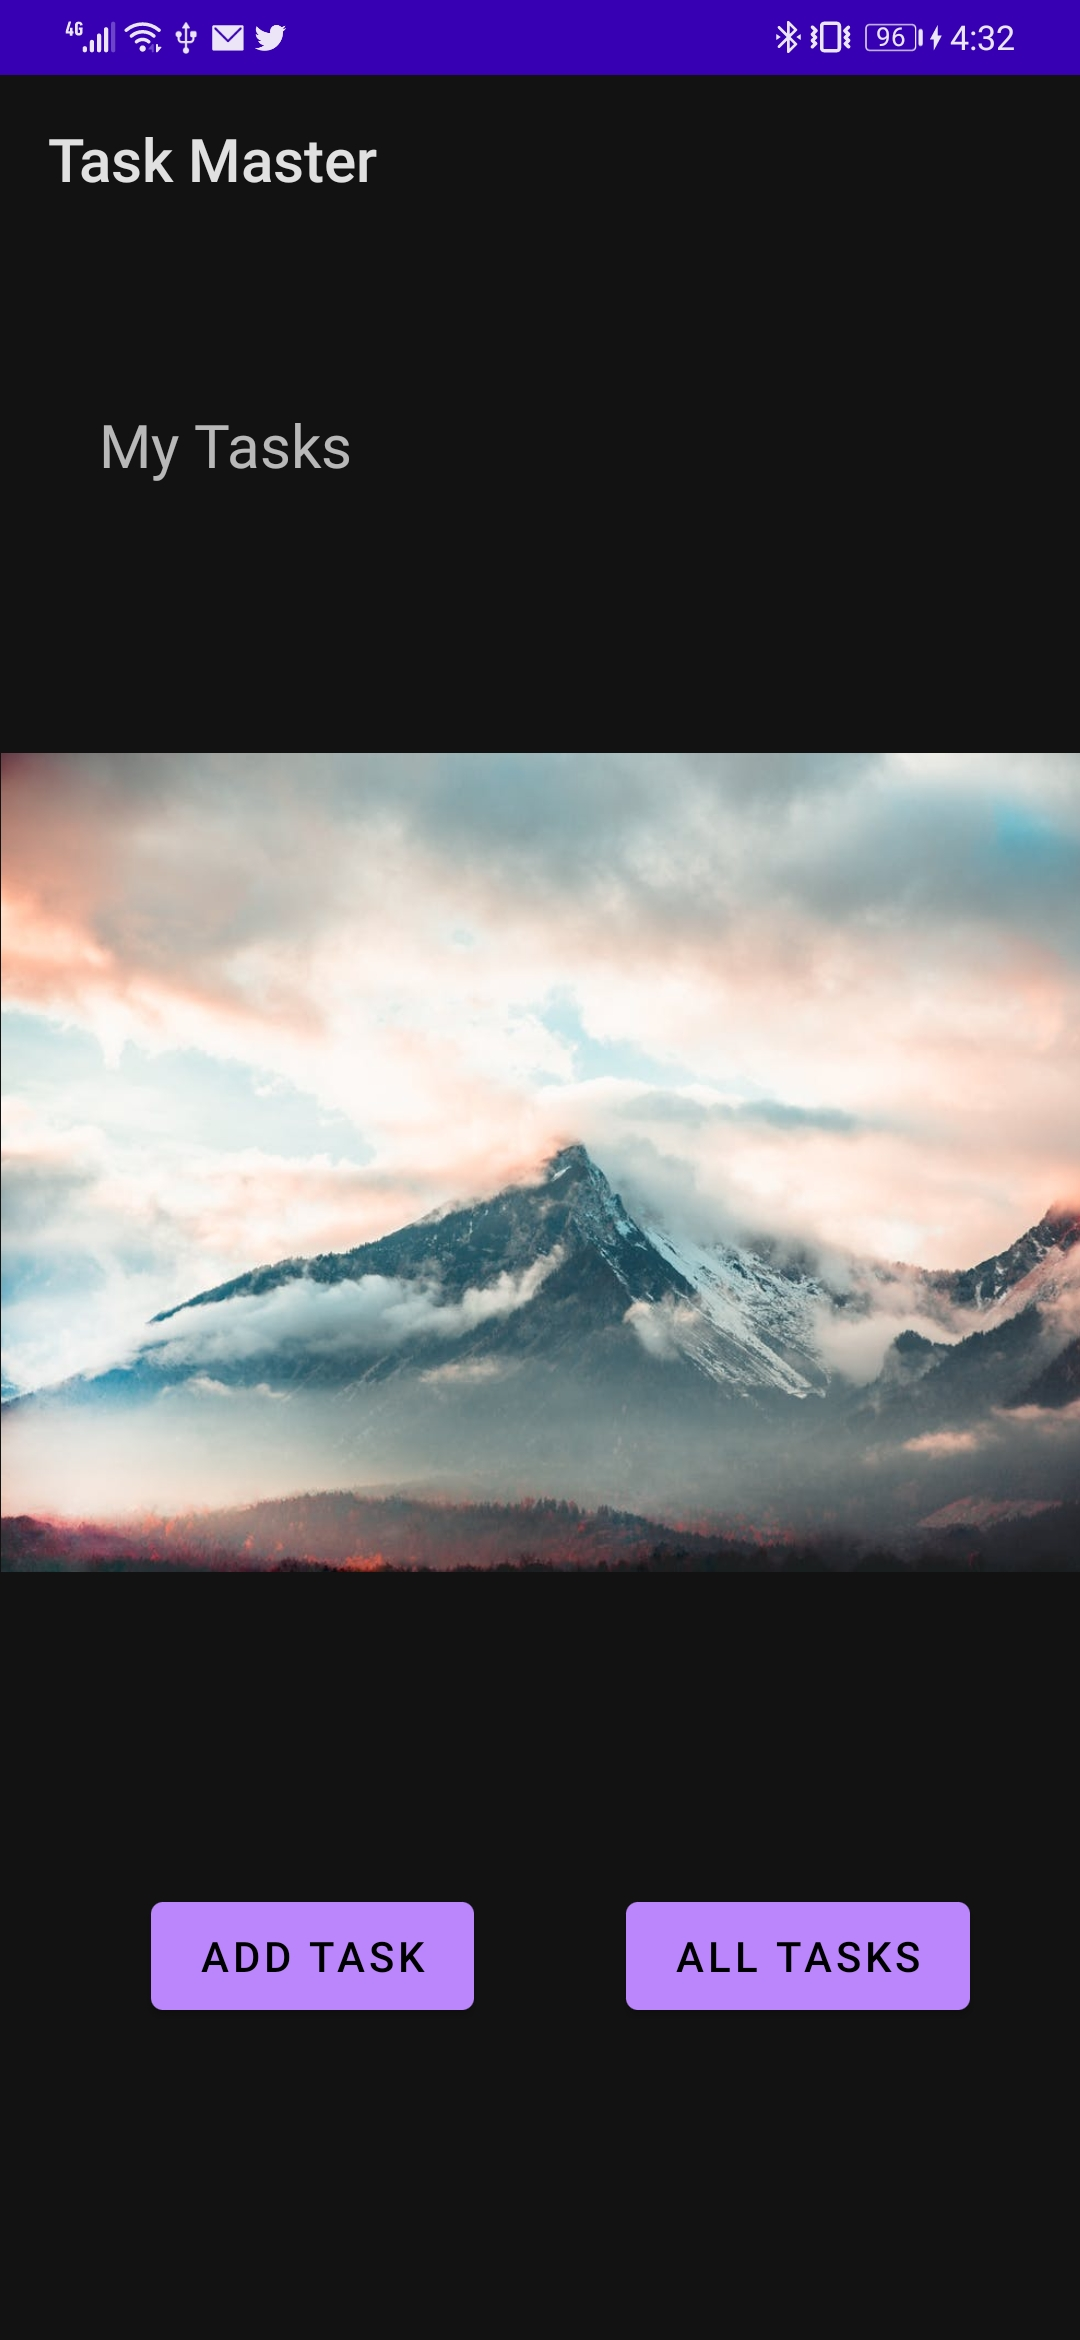
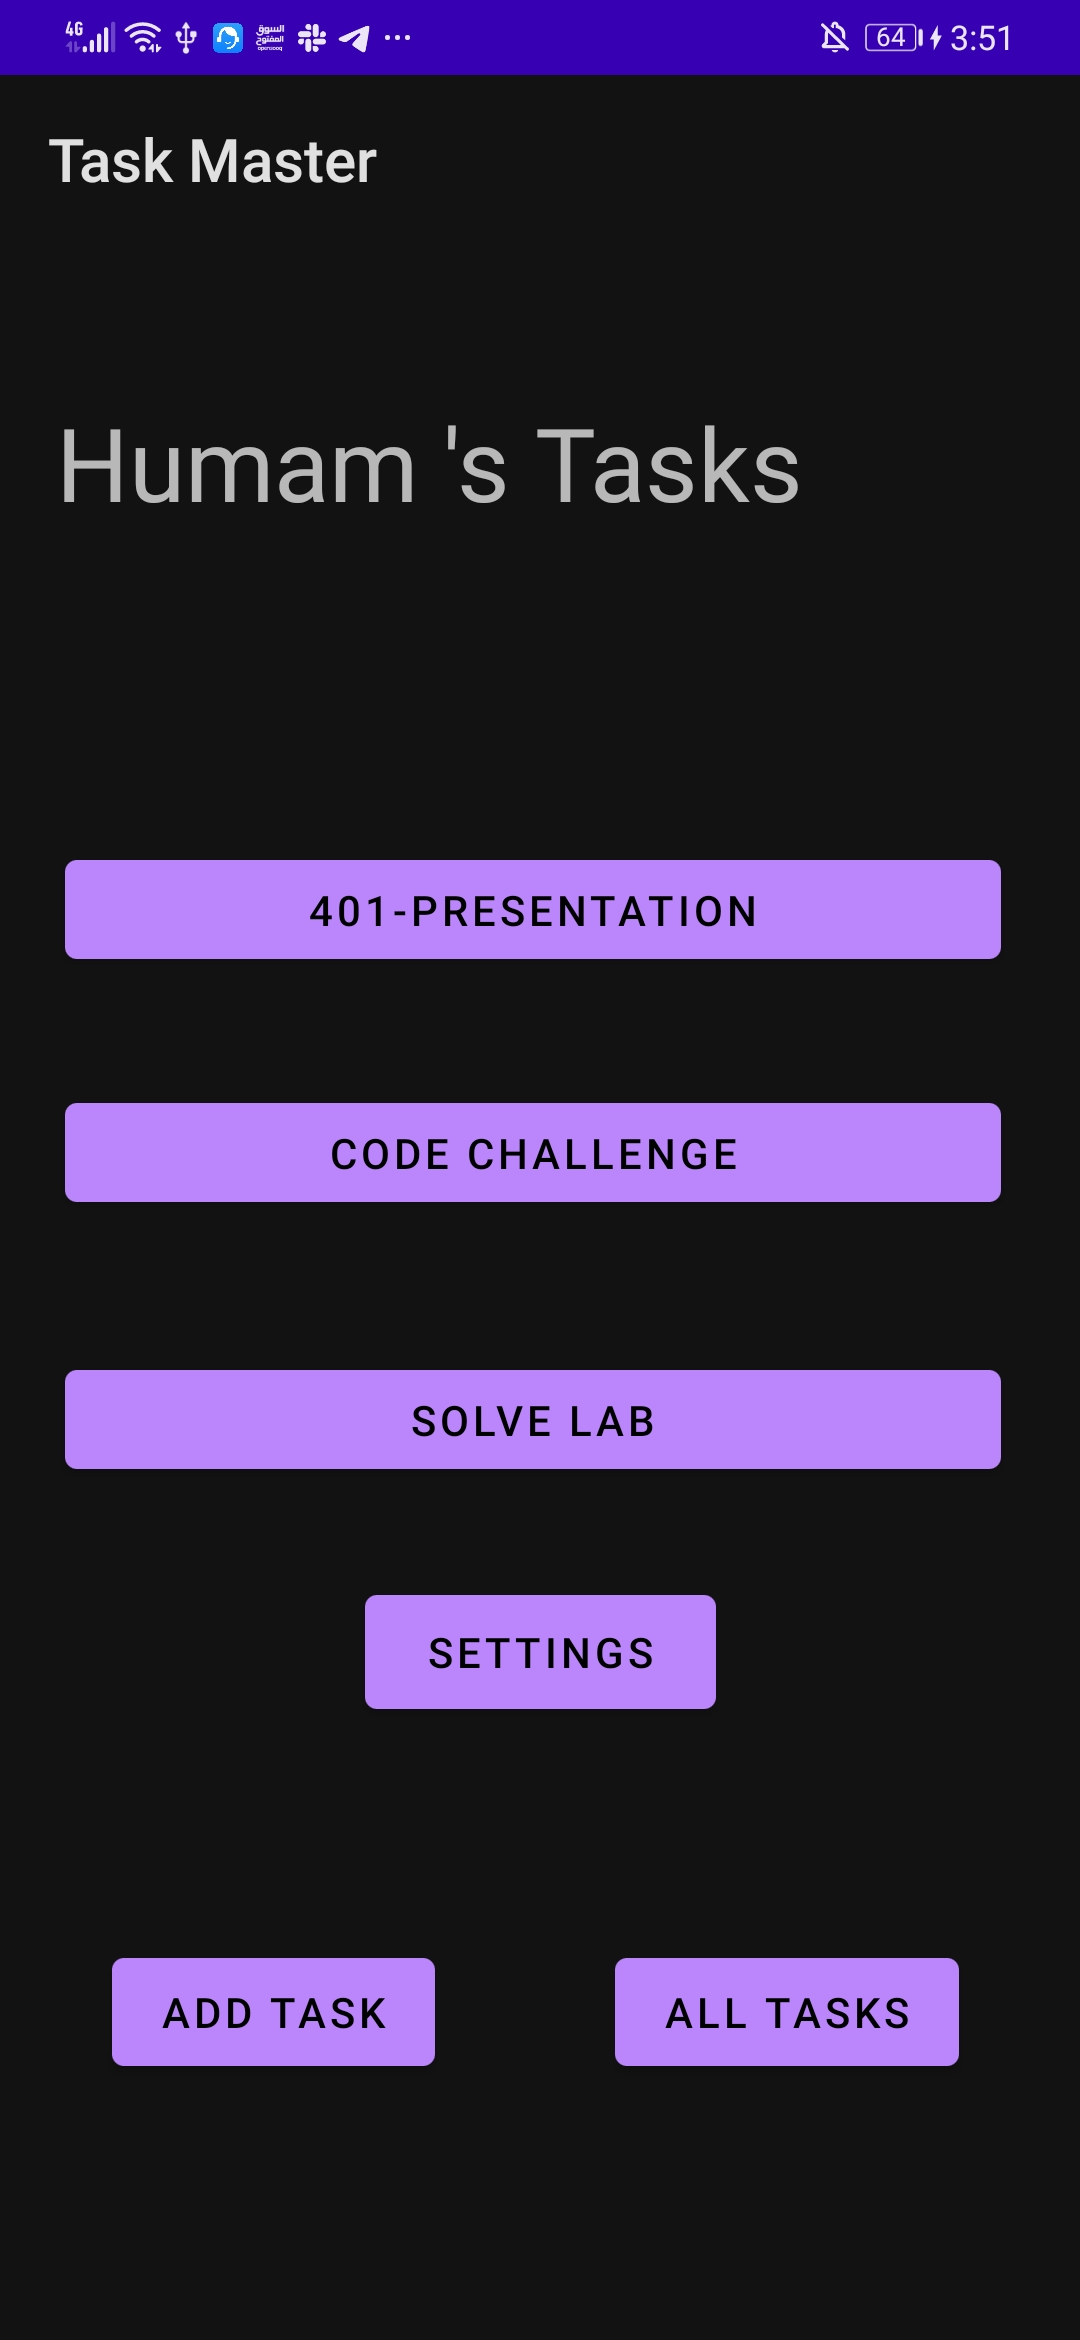
lab27

diff --git a/app/src/main/java/com/example/taskmaster/MainActivity.java b/app/src/main/java/com/example/taskmaster/MainActivity.java
@@ -3,9 +3,12 @@ package com.example.taskmaster;
 import androidx.appcompat.app.AppCompatActivity;
 
 import android.content.Intent;
+import android.content.SharedPreferences;
 import android.os.Bundle;
+import android.preference.PreferenceManager;
 import android.view.*;
 import android.widget.Button;
+import android.widget.TextView;
 import android.widget.Toast;
 
 public class MainActivity extends AppCompatActivity {
@@ -25,8 +28,6 @@ public class MainActivity extends AppCompatActivity {
             }
         });
 
-
-
         Button allTasks = (Button) findViewById(R.id.allTasks);
         allTasks.setOnClickListener(new View.OnClickListener() {
             @Override
@@ -36,8 +37,63 @@ public class MainActivity extends AppCompatActivity {
             }
         });
 
+
+        Button presentation = findViewById(R.id.presentationButton);
+        presentation.setOnClickListener(new View.OnClickListener() {
+            @Override
+            public void onClick(View v) {
+                String presentationTitle = presentation.getText().toString();
+                Intent goToPresentationDetails = new Intent(MainActivity.this, TaskDetail.class);
+                goToPresentationDetails.putExtra("title",presentationTitle);
+                startActivity(goToPresentationDetails);
+            }
+        });
+
+
+        Button codeChallenge = findViewById(R.id.codeChallengeButton);
+        codeChallenge.setOnClickListener(new View.OnClickListener() {
+            @Override
+            public void onClick(View v) {
+                String codeChallengeTitle = codeChallenge.getText().toString();
+                Intent goToCodeChallengeDetails = new Intent(MainActivity.this, TaskDetail.class);
+                goToCodeChallengeDetails.putExtra("title",codeChallengeTitle);
+                startActivity(goToCodeChallengeDetails);
+            }
+        });
+
+
+
+        Button solveLab = findViewById(R.id.solveLabButton);
+        solveLab.setOnClickListener(new View.OnClickListener() {
+            @Override
+            public void onClick(View v) {
+                String labTitle = solveLab.getText().toString();
+                Intent goToLabDetails = new Intent(MainActivity.this, TaskDetail.class);
+                goToLabDetails.putExtra("title",labTitle);
+                startActivity(goToLabDetails);
+            }
+        });
+
+        Button setting = findViewById(R.id.settingsButton);
+        setting.setOnClickListener(new View.OnClickListener() {
+            @Override
+            public void onClick(View v) {
+                Intent goToSettings = new Intent(MainActivity.this, Settings.class);
+                startActivity(goToSettings);
+            }
+        });
     }
 
 
+    @Override
+    protected void onStart() {
+        super.onStart();
 
+        String tasks = "'s Tasks";
+        SharedPreferences sharedPreferences = PreferenceManager.getDefaultSharedPreferences(MainActivity.this);
+        String username = sharedPreferences.getString("username", "user");
+
+        TextView usernameField = findViewById(R.id.textView3);
+        usernameField.setText(username + tasks);
+    }
 }

diff --git a/app/src/main/java/com/example/taskmaster/Settings.java b/app/src/main/java/com/example/taskmaster/Settings.java
@@ -1,0 +1,38 @@
+package com.example.taskmaster;
+
+import androidx.appcompat.app.AppCompatActivity;
+
+import android.content.SharedPreferences;
+import android.os.Bundle;
+import android.preference.PreferenceManager;
+import android.view.View;
+import android.widget.Button;
+import android.widget.EditText;
+import android.widget.Toast;
+
+public class Settings extends AppCompatActivity {
+
+    @Override
+    protected void onCreate(Bundle savedInstanceState) {
+        super.onCreate(savedInstanceState);
+        setContentView(R.layout.activity_settings);
+
+
+        Button saveUsernameButton = findViewById(R.id.settingUsernameButton);
+        saveUsernameButton.setOnClickListener(new View.OnClickListener() {
+            @Override
+            public void onClick(View v) {
+                Toast.makeText(getApplicationContext(), "Saved!", Toast.LENGTH_LONG).show();
+                SharedPreferences sharedPreferences = PreferenceManager.getDefaultSharedPreferences(Settings.this);
+                SharedPreferences.Editor sharedPreferencesEditor = sharedPreferences.edit();
+
+                EditText usernameField = findViewById(R.id.usernameField);
+                String username = usernameField.getText().toString();
+
+                sharedPreferencesEditor.putString("username", username);
+                sharedPreferencesEditor.apply();
+            }
+        });
+    }
+
+}

diff --git a/app/src/main/java/com/example/taskmaster/TaskDetail.java b/app/src/main/java/com/example/taskmaster/TaskDetail.java
@@ -1,0 +1,21 @@
+package com.example.taskmaster;
+
+import androidx.appcompat.app.AppCompatActivity;
+
+import android.content.Intent;
+import android.os.Bundle;
+import android.widget.TextView;
+
+public class TaskDetail extends AppCompatActivity {
+
+    @Override
+    protected void onCreate(Bundle savedInstanceState) {
+        super.onCreate(savedInstanceState);
+        setContentView(R.layout.activity_task_detail);
+
+        Intent intent = getIntent();
+        String title = intent.getExtras().getString("title");
+        TextView titleText = findViewById(R.id.detailPageTitle);
+        titleText.setText(title);
+    }
+}

diff --git a/README.md b/README.md
@@ -1,12 +1,16 @@
 # taskmaster
 
-this is an android application which allows the users to manage their tasks . 
-version: 1.0.0
+this is an android application which allows the users to manage their tasks. 
+version: 1.0.1
 
-#### lab16 changelog:
-+ create a home page which has an image and two buttons (add task , all tasks);
+#### lab26 changelog:
++ create a home page which has a three tasks buttons and settings button and (add task , all tasks) buttons.
 + create an add task page which has two fields (title , descreption) and an add buttons which shows a message of submitted.
-+ create an all tasks page which has an image and a back button to navigate you back to the home page
++ create an all tasks page which has an image and a back button to navigate you back to the home page.
+
+#### lab27 changelog:
++ add a task details page which shows the task title and the descreption.
++ add a setting page which the user can change his username from there.
 
 
 ## here are some screens of the application
@@ -16,9 +20,18 @@ version: 1.0.0
 ![home](screenshots/home.jpg)
 
 
+### the settings page:
+![setting](screenshots/setting.jpg)
+
+
+### the details page:
+![details](screenshots/details.jpg)
+
+
 ### the add task page:
 ![add-task](screenshots/add-task.jpg)
 
 
 ### the all tasks page:
-![add-task](screenshots/all-tasks.jpg)
+![all-task](screenshots/all-tasks.jpg)
+
